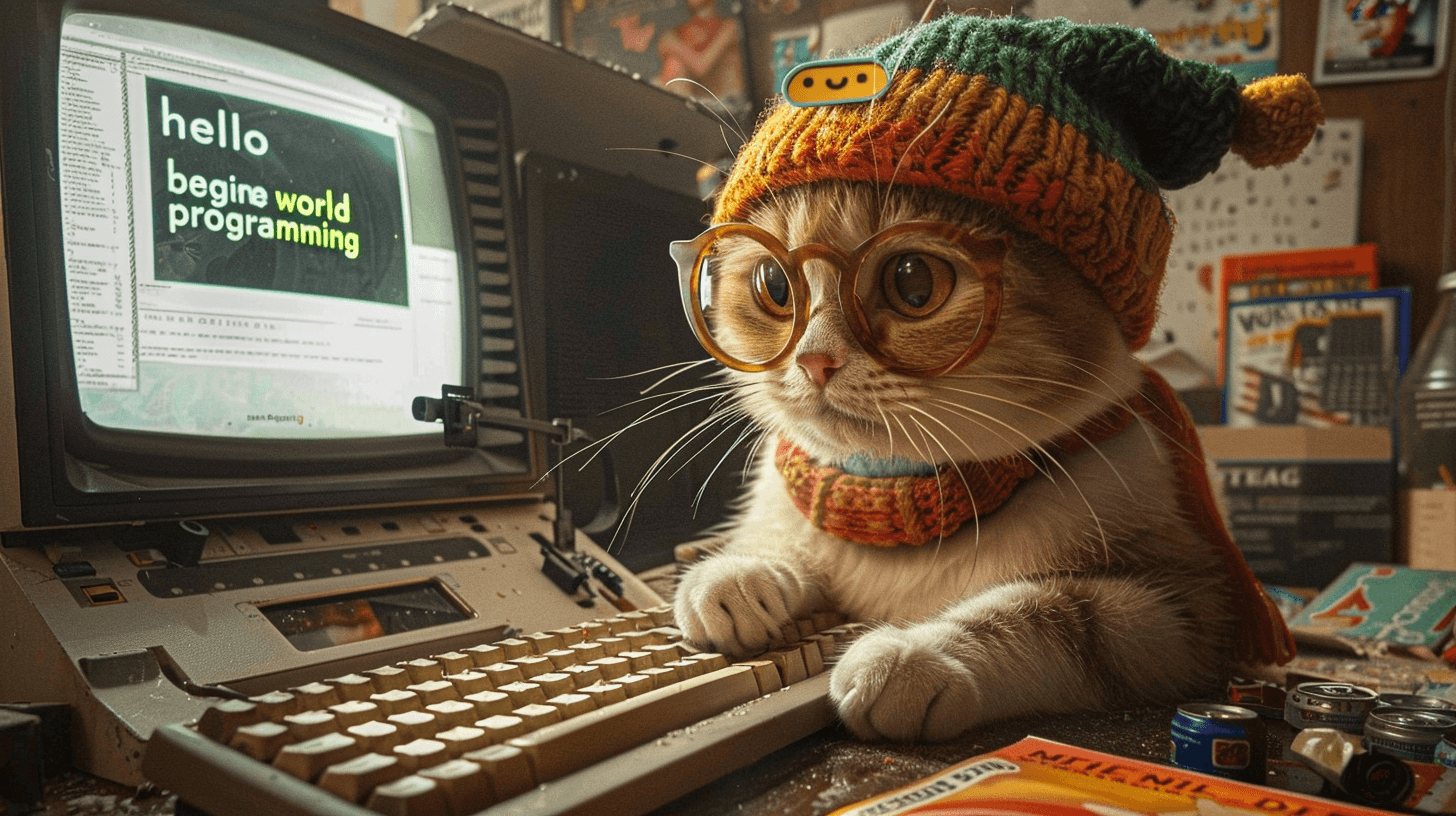
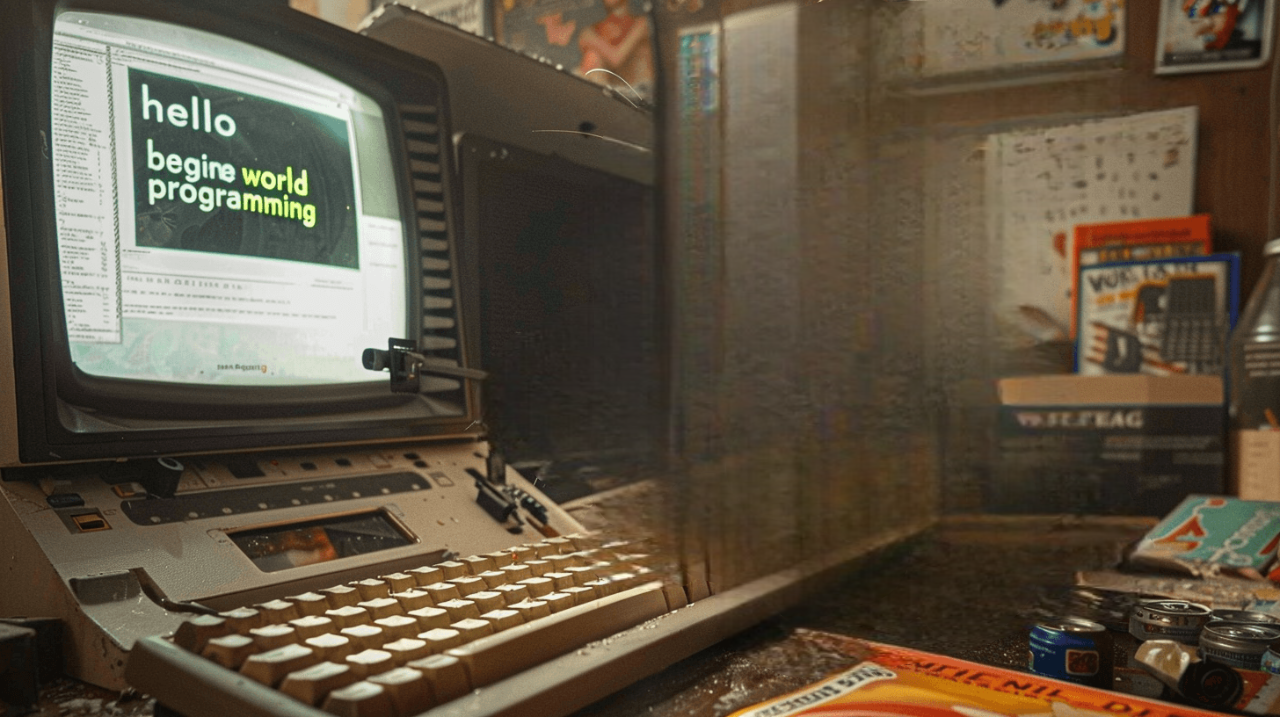
update anim and hero section

Changed region(s): [[0.4062, 0.0, 0.9375, 0.9512], [0.375, 0.4909, 0.4375, 0.583]]

diff --git a/src/components/hero.tsx b/src/components/hero.tsx
@@ -37,7 +37,7 @@ const Hero = forwardRef((props, ref) => {
       id="home"
       className="h-screen flex flex-col gap-36 -mt-[5%] justify-center px-[10%]"
     >
-      <div className="grid-gap spacing flex grid-cols-2 flex-col md:grid">
+      <div className="flex flex-row gap-8">
         <article className="">
           <h2 className="text-2xl md:text-4xl 2xl:text-5xl" data-fade="1">
             Hi!
@@ -74,7 +74,7 @@ const Hero = forwardRef((props, ref) => {
             </div>
             <a
               className="inline-flex rounded px-4 py-2 font-bold border border-gray-300 shadow-sm dark:border-gray-600 focus:outline-none focus-visible:ring focus-visible:ring-primary-300 scale-100 hover:scale-[1.03] active:scale-[0.97] motion-safe:transform-gpu motion-reduce:hover:scale-100 motion-reduce:hover:brightness-90 transition duration-100 animate-shadow bg-white text-gray-800 disabled:bg-gray-200 dark:bg-dar dark:disabled:bg-gray-700"
-              href="/#about"
+              href="/about"
             >
               Learn more about me
             </a>
@@ -86,7 +86,7 @@ const Hero = forwardRef((props, ref) => {
             <a
               target="_blank"
               rel="noopener noreferrer"
-              href="../../public/cv.pdf"
+              href="../../cv.pdf"
               className="inline-flex items-center gap-1 text-sm font-medium md:text-base text-gray-600 hover:text-black dark:text-gray-400 dark:hover:text-white focus:outline-none focus-visible:ring focus-visible:ring-primary-300 transition-colors cursor-newtab"
             >
               <svg
@@ -160,7 +160,7 @@ const Hero = forwardRef((props, ref) => {
           </div>
         </article>
         <div
-          className="relative rounded-md min-h-96"
+          className="relative rounded-md"
           style={{
             backgroundImage: `url("/avatar.png")`,
             backgroundSize: "cover",
@@ -169,7 +169,7 @@ const Hero = forwardRef((props, ref) => {
             height: "100%",
           }}
         >
-          <div className="absolute top-0 left-0 min-h-[28rem] w-full">
+          <div className="absolute top-0 left-0 w-full">
             <img
               ref={imgRef}
               className="h-full w-full object-cover"

diff --git a/src/styles/globals.css b/src/styles/globals.css
@@ -119,28 +119,28 @@ body::before {
 h1 {
   font-family: Inter, ui-sans-serif, system-ui, sans-serif, Apple Color Emoji, Segoe UI Emoji, Segoe UI Symbol, Noto Color Emoji;
   font-size: 1.5rem;
-  line-height: 2rem;
+  line-height: 2.5rem;
   font-weight: 700;
 }
 
 h2 {
   font-family: Inter, ui-sans-serif, system-ui, sans-serif, Apple Color Emoji, Segoe UI Emoji, Segoe UI Symbol, Noto Color Emoji;
   font-size: 1.25rem;
-  line-height: 1.75rem;
+  line-height: 2rem;
   font-weight: 600;
 }
 
 h3 {
   font-family: Inter, ui-sans-serif, system-ui, sans-serif, Apple Color Emoji, Segoe UI Emoji, Segoe UI Symbol, Noto Color Emoji;
   font-size: 1.125rem;
-  line-height: 1.5rem;
+  line-height: 1.75rem;
   font-weight: 500;
 }
 
 h4 {
   font-family: Inter, ui-sans-serif, system-ui, sans-serif, Apple Color Emoji, Segoe UI Emoji, Segoe UI Symbol, Noto Color Emoji;
   font-size: 1rem;
-  line-height: 1.25rem;
+  line-height: 1.5rem;
   font-weight: 500;
 }
 
@@ -177,6 +177,43 @@ li {
   font-size: 14px;
   line-height: 1.5;
   color: #ffffff;
+}
+
+.notion-bulleted_list {
+  list-style-type: disc; /* Kiểu danh sách có dấu chấm */
+  margin-left: 20px; /* Khoảng cách lề trái */
+  padding-left: 10px; /* Khoảng cách padding trái */
+}
+
+.notion-numbered_list_item {
+  list-style-type: decimal; /* Kiểu danh sách có số thứ tự */
+  margin-left: 20px; /* Khoảng cách lề trái */
+  padding-left: 10px; /* Khoảng cách padding trái */
+}
+
+.notion-bulleted_list_item {
+  margin-bottom: 5px; /* Khoảng cách dưới giữa các mục */
+  padding-left: 10px; /* Khoảng cách padding trái */
+}
+
+.notion-table {
+  width: 100%; /* Đặt chiều rộng bảng là 100% */
+  border-collapse: collapse; /* Gộp các đường viền bảng lại */
+  margin-bottom: 20px; /* Khoảng cách dưới bảng */
+}
+
+.notion-table_row {
+  border-bottom: 1px solid #ccc; /* Đường viền dưới của hàng bảng */
+}
+
+.notion-table_cell {
+  padding: 10px; /* Khoảng cách padding cho ô bảng */
+  border: 1px solid #ccc; /* Đường viền của ô bảng */
+  text-align: left; /* Canh trái nội dung */
+}
+
+.custom-select option {
+  color: #000;
 }
 
 .hljs-keyword,

diff --git a/src/components/Trans/anim.js b/src/components/Trans/anim.js
@@ -5,7 +5,7 @@ export const text = {
     enter: {
         opacity: 0,
         top: -100,
-        transition: { duration: 1.5, delay: 0.75, ease: [0.76, 0, 0.24, 1] },
+        transition: { duration: .75, delay: .35, ease: [0.76, 0, 0.24, 1] },
         transitionEnd: { top: "47.5%" }
     },
     exit: {
@@ -22,11 +22,11 @@ export const curve = (initialPath, targetPath) => {
         },
         enter: {
             d: targetPath,
-            transition: { duration: 1.5, delay: 0.75, ease: [0.76, 0, 0.24, 1] }
+            transition: { duration: .75, delay: .35, ease: [0.76, 0, 0.24, 1] }
         },
         exit: {
             d: initialPath,
-            transition: { duration: 1.5, ease: [0.76, 0, 0.24, 1] }
+            transition: { duration: .75, ease: [.36, 0, 0.24, 1] }
         }
     }
 }
@@ -41,7 +41,7 @@ export const translate = {
         top: "-100vh",
         opacity: 1,
         zIndex: 2,
-        transition: { duration: 1.5, delay: 0.75, ease: [0.76, 0, 0.24, 1] },
+        transition: { duration: .75, delay: .35, ease: [0.76, 0, 0.24, 1] },
         transitionEnd: {
             top: "100vh"
         }
@@ -50,6 +50,6 @@ export const translate = {
         top: "-300px",
         opacity: 0,
         zIndex: 10,
-        transition: { duration: 1.5, ease: [0.76, 0, 0.24, 1] }
+        transition: { duration: .75, ease: [.36, 0, 0.24, 1] }
     }
 }

diff --git a/src/components/ui/serviceUi.tsx b/src/components/ui/serviceUi.tsx
@@ -53,15 +53,15 @@ export default function ServiceUi({
   return (
     <div
       ref={serviceUi}
-      className="sticky top-0 border-t border-t-secondary-300 bg-[#141414]"
-      style={{ top: `calc(20vh + ${i * 5.75}rem)`,  marginBottom: `${(length === i + 1 ? 3.75 : (length - i) * 5.75)}rem` }}
+      className="sticky top-0 border-t border-t-secondary-300 h-[40vh] bg-[#141414]"
+      style={{ top: `calc(20vh + ${i * 5.75}rem)`,  marginBottom: `${((length - i) * 5.75)}rem` }}
     >
       <div className="flex flex-row items-start gap-48 relative origin-top h-full w-full rounded-2xl">
         <div className="space-y-6 w-1/2">
           <div className="space-y-3 2xl:space-y-10">
             <h3
               ref={heading}
-              className="text-heading-3 2xl:text-7xl font-semibold leading-tight  translate-y-10 opacity-0"
+              className="2xl:text-6xl font-semibold leading-tight translate-y-10 opacity-0"
             >
               {title}
             </h3>
@@ -81,7 +81,7 @@ export default function ServiceUi({
             return (
               <p
                 key={index}
-                className="font-general text-special 2xl:text-7xl  font-extrabold "
+                className="font-general text-special 2xl:text-6xl font-extrabold mb-8"
               >
                 {item}
               </p>

diff --git a/src/app/blogs/page.tsx b/src/app/blogs/page.tsx
@@ -38,7 +38,7 @@ export default function Blogs() {
       post.title.toLowerCase().includes(keyword)
     );
     setFilteredPosts(filtered);
-    setCurrentPage(1); // Reset to the first page
+    setCurrentPage(1);
   };
 
   const startIndex = (currentPage - 1) * POSTS_PER_PAGE;
@@ -136,7 +136,7 @@ export default function Blogs() {
         <select
           value={sortBy}
           onChange={handleSortChange}
-          className="mt-4 p-2 border text-[#fff] bg-transparent border-gray-300 rounded-md"
+          className="custom-select mt-4 p-2 border text-[#fff] bg-transparent border-gray-300 rounded-md"
         >
           <option value="date">Sort by Date</option>
           <option value="title">Sort by Title</option>
@@ -191,8 +191,10 @@ export default function Blogs() {
           <button
             key={index}
             onClick={() => handlePageChange(index + 1)}
-            className={`mx-1 px-3 py-1 rounded-md text-[#141414] ${
-              currentPage === index + 1 ? "bg-gray-300" : "bg-gray-100"
+            className={`mx-1 px-3 py-1 rounded-md border ${
+              currentPage === index + 1
+                ? "bg-[#fff] text-[#141414]"
+                : "bg-transparent text-[#fff]"
             }`}
           >
             {index + 1}

diff --git a/src/lib/notion.ts b/src/lib/notion.ts
@@ -15,10 +15,26 @@ export const notionClient = new Client({
 export const getPages = cache(async () => {
   const response = await notionClient.databases.query({
     database_id: process.env.NOTION_DATABASE_ID,
+    filter: {
+      and: [
+        {
+          property: "Status",
+          status: {
+            equals: "Done",
+          },
+        },
+      ],
+    },
+    // sorts: [
+    //   {
+    //     timestamp: 'last_edited_time',
+    //     direction: 'descending',
+    //   },
+    // ],
+    // start_cursor: undefined,
   });
 
   return response.results
-    .filter((page) => page.properties.Status.status.name === "Done")
     .map((page) => ({
       id: page.id,
       title: page.properties.Name.title[0].plain_text,
@@ -26,7 +42,7 @@ export const getPages = cache(async () => {
       slug: page.properties.Slug.rich_text[0].plain_text,
       techs: page.properties.Technology.multi_select,
       background: page.cover?.external.url,
-      date: format(new Date(page.last_edited_time), "do MMMM yyyy"),
+      date: format(new Date(page.created_time), "do MMMM yyyy"),
     }));
 });
 

diff --git a/src/components/contact.tsx b/src/components/contact.tsx
@@ -144,7 +144,7 @@ const Contact = forwardRef((props, ref) => {
             <div className="text-body-2 2xl:text-3xl">
               <a
                 href="https://github.com/thanhphan20"
-                className="flex items-center mb-4"
+                className="flex w-fit gap-4 items-center mb-4"
                 target="_blank"
                 rel="noreferrer"
               >
@@ -156,7 +156,7 @@ const Contact = forwardRef((props, ref) => {
               </a>
               <a
                 href="https://www.linkedin.com/in/cthanhphan/"
-                className="flex w-fit items-center mb-4"
+                className="flex w-fit gap-4 items-center mb-4"
                 target="_blank"
                 rel="noreferrer"
               >

diff --git a/src/components/services.tsx b/src/components/services.tsx
@@ -14,7 +14,7 @@ const Services = forwardRef((props, ref) => {
       title: "my expertises.",
       description:
         "I focus on all things design and web related. With each of my services, my goal is to deliver an impactful and elevating digital experience for everyone.",
-      items: ["Web Development", "Web Design", "UI/UX Design"],
+      items: ["Development", "Design", "UI/UX Design"],
     },
     {
       title: "my frontend stack.",
@@ -57,6 +57,7 @@ const Services = forwardRef((props, ref) => {
       {serviceUis.map((service, i) => {
         return (
           <ServiceUi
+            key={i}
             title={service.title}
             description={service.description}
             items={service.items}

diff --git a/src/components/Header/nav.tsx b/src/components/Header/nav.tsx
@@ -4,6 +4,7 @@ import { motion } from "framer-motion";
 import { usePathname } from "next/navigation";
 import { menuSlide } from "./anim";
 import Link from "./link";
+import { title } from "process";
 
 const navItems = [
   {
@@ -13,6 +14,10 @@ const navItems = [
   {
     title: "Blogs",
     href: "/blogs",
+  },
+  {
+    title: "About",
+    href: "/about",
   },
   {
     title: "Projects",

diff --git a/src/components/Trans/trans.tsx b/src/components/Trans/trans.tsx
@@ -8,6 +8,8 @@ import styles from "./style.module.scss";
 const routes = {
   "/": "Home",
   "/blogs": "Blogs",
+  "/about": "About",
+  "/project": "Projects",
 };
 
 const anim = (variants: string) => {

diff --git a/src/app/about/page.tsx b/src/app/about/page.tsx
@@ -1,0 +1,6 @@
+export default function About() {
+  return (
+  <main className="flex flex-col justify-center px-[10%]">
+    <div>Updating...</div>
+  </main>);
+}
